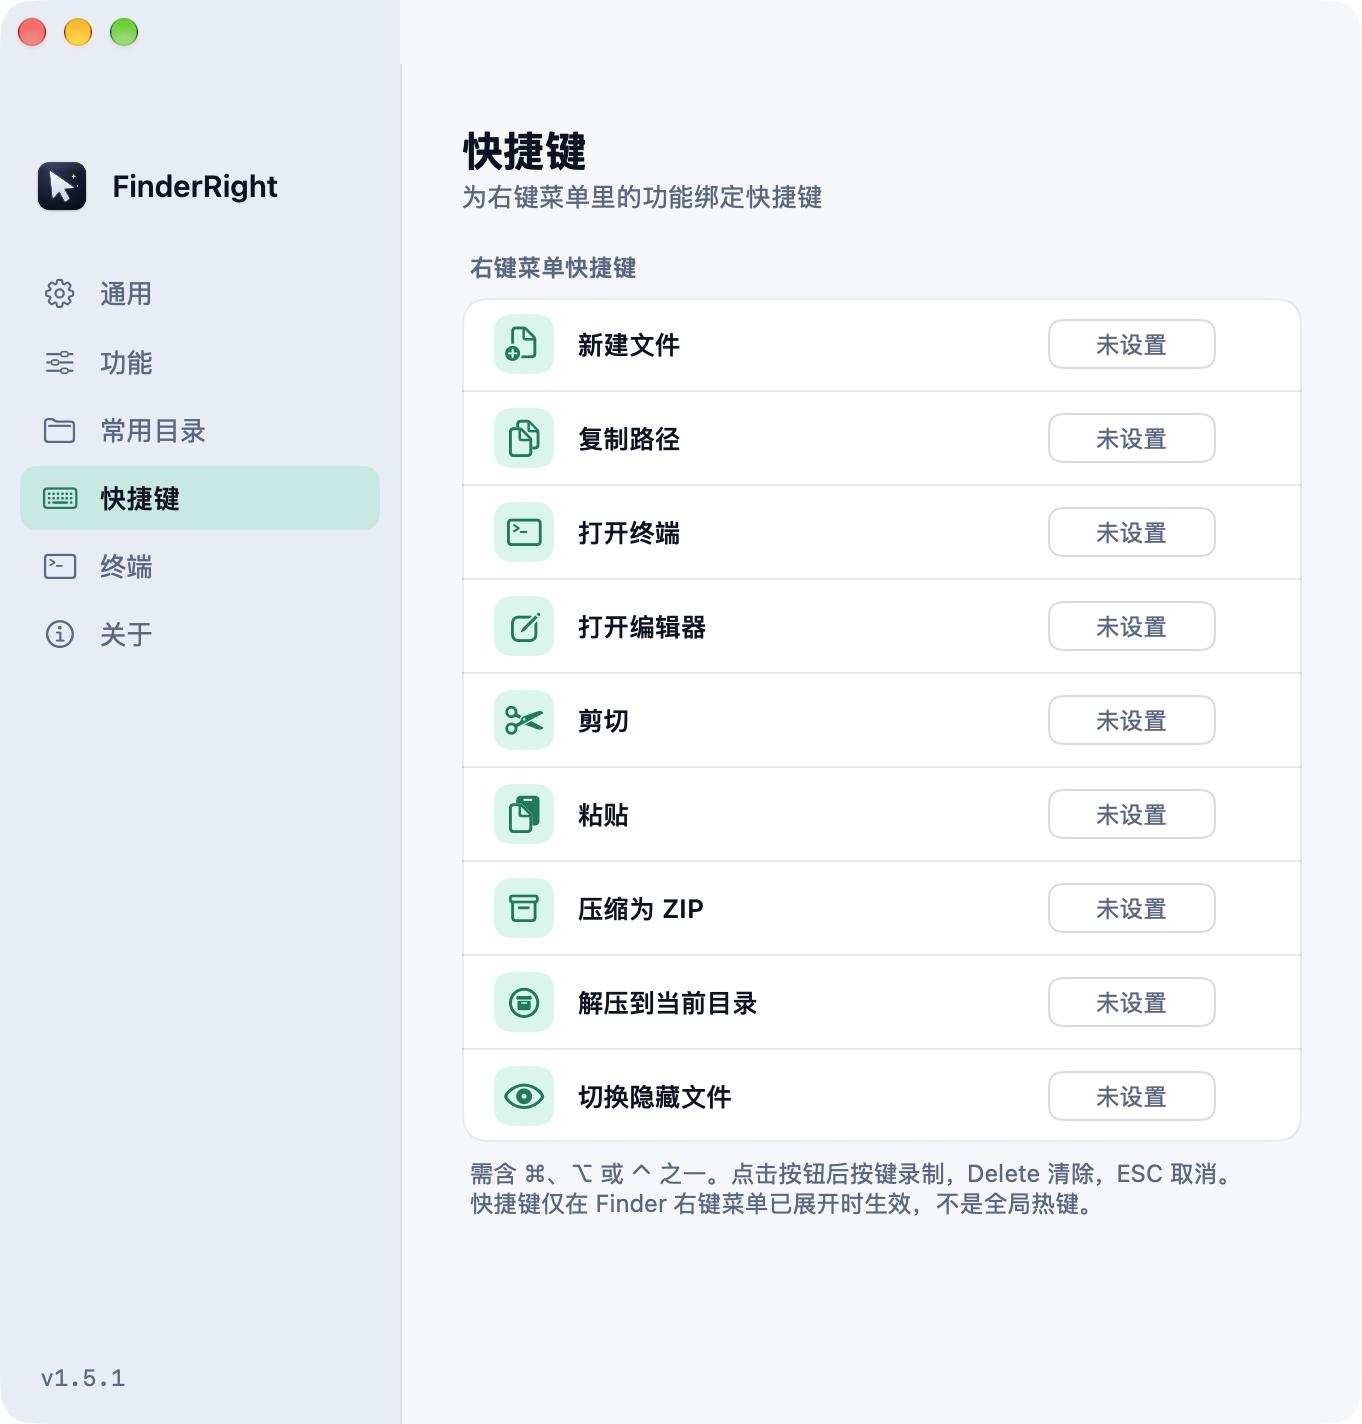
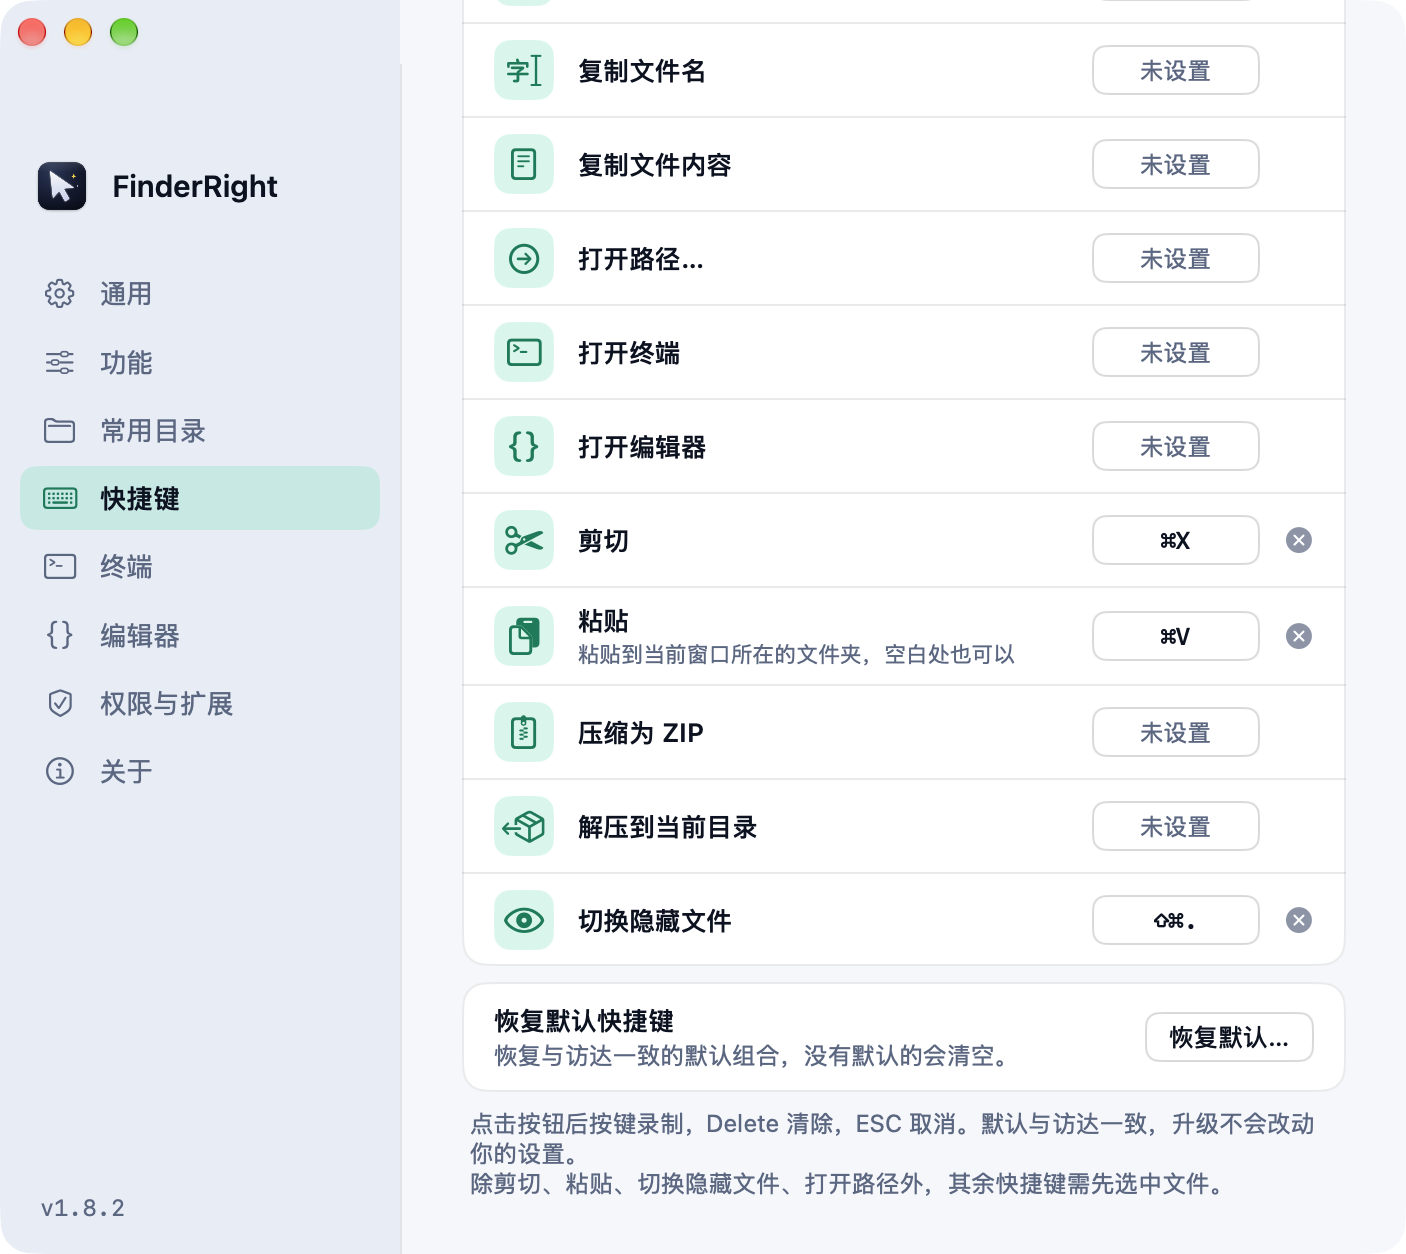
docs: replace the settings screenshot with the current shortcuts page
The old shot showed the General tab while both the README and the site labelled it keyboard shortcuts, and its copy predates the recent trim. Captured in light mode at 2x (1406x1254) so it matches the other screenshots; the image dimensions in the page now match the file.

diff --git a/website/dist/index.html b/website/dist/index.html
@@ -89,7 +89,7 @@
 
     <section class="wrap sec fav-sec">
       <div class="fav">
-        <div class="shot"><img src="assets/settings-shortcuts.png" width="1362" height="1424" alt="FinderRight 右键菜单快捷键设置界面" data-en-alt="FinderRight context menu keyboard shortcut settings" loading="lazy"></div>
+        <div class="shot"><img src="assets/settings-shortcuts.png" width="1406" height="1254" alt="FinderRight 快捷键设置界面，展示剪切、粘贴、切换隐藏文件的默认快捷键" data-en-alt="FinderRight keyboard shortcut settings showing the default cut, paste and hidden-file shortcuts" loading="lazy"></div>
         <div><span class="label mono" data-en="03 / Keyboard shortcuts">03 / 快捷键</span><h2 class="disp" data-en="Your menu.<br>Your muscle memory.">顺手的菜单，<br>熟悉的按键。</h2><p data-en="Bind shortcuts for creating files, opening a terminal, cutting and pasting. Shortcuts work while the Finder context menu is open.">为新建文件、打开终端、剪切粘贴绑定快捷键。展开 Finder 右键菜单后，就能用熟悉的按键操作。</p></div>
       </div>
     </section>
